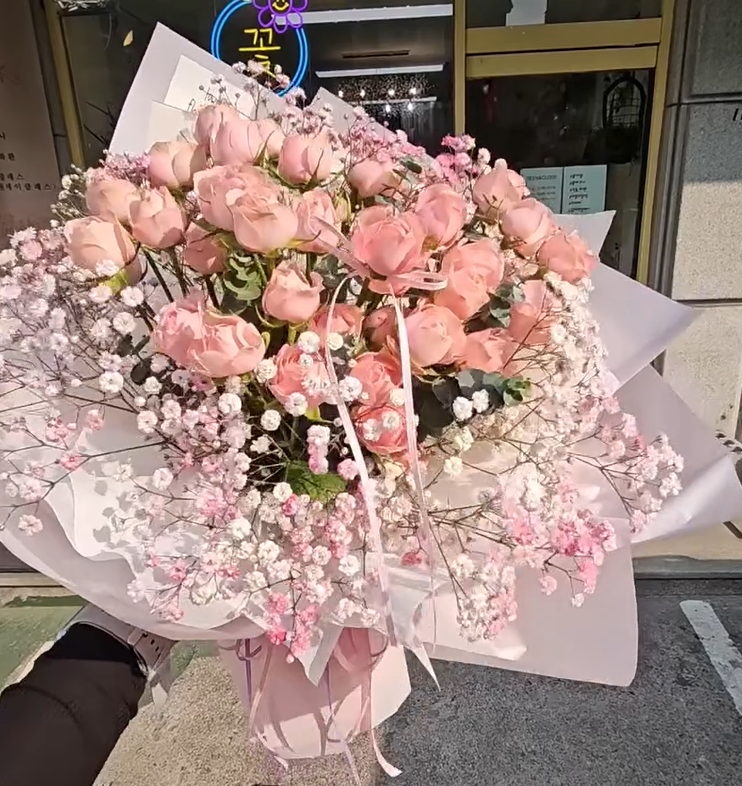
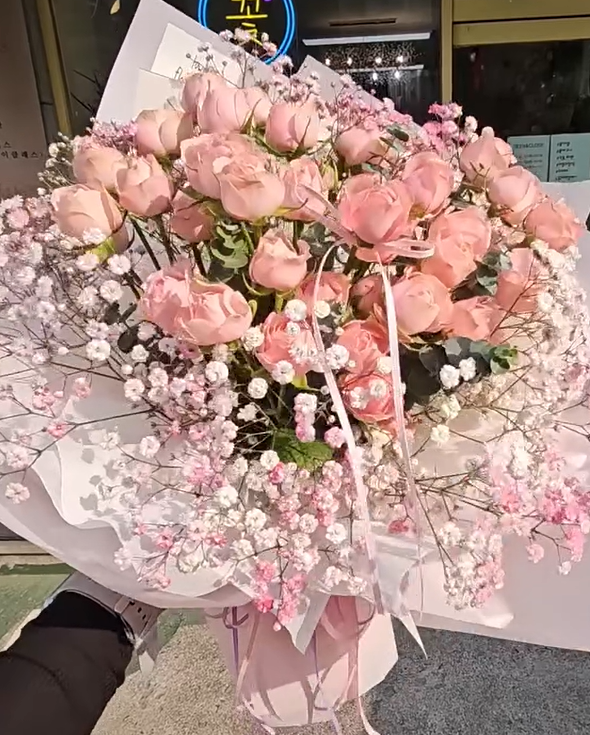
feat: 포트폴리오 클래식 궇현 완료

diff --git a/src/component/portfolioComponent.tsx b/src/component/portfolioComponent.tsx
@@ -1,9 +1,17 @@
 import React, { useState, useEffect } from "react";
 import { FaExternalLinkAlt } from "react-icons/fa";
-
+//클래식
 import portc1 from "../assets/portfolio/classic/portc1.png";
 import portc2 from "../assets/portfolio/classic/portc2.png";
 import portc3 from "../assets/portfolio/classic/portc3.png";
+import portc4 from "../assets/portfolio/classic/portc4.png";
+import portc5 from "../assets/portfolio/classic/portc5.png";
+import portc6 from "../assets/portfolio/classic/portc6.png";
+import portc7 from "../assets/portfolio/classic/portc7.png";
+import portc8 from "../assets/portfolio/classic/portc8.png";
+
+//유니크
+import portu5 from "../assets/portfolio/unique/portu5.png";
 
 // 1.데이터에 style(클래식/유니크) 속성 추가
 const portfolioData = [
@@ -19,11 +27,37 @@ const portfolioData = [
   },
   {
     src: portc3,
+    tags: ["핑크", "화이트"],
+    style: "클래식",
+  },
+  {
+    src: portc4,
     tags: ["핑크"],
+    style: "클래식",
+  },
+  {
+    src: portc5,
+    tags: ["블루", "화이트"],
+    style: "클래식",
+  },
+  {
+    src: portc6,
+    tags: ["퍼플", "화이트"],
+    style: "클래식",
+  },
+  {
+    src: portc8,
+    tags: ["컬러풀"],
+    style: "클래식",
+  },
+  {
+    src: portc7,
+    tags: ["컬러풀"],
     style: "클래식",
   },
   { src: "/images/portu2.png", tags: ["컬러풀"], style: "유니크" },
   { src: "/images/portu3.png", tags: ["퍼플", "화이트"], style: "유니크" },
+  { src: portu5, tags: ["블루", "화이트"], style: "유니크" },
 ];
 // 레드: "RED",
 //   핑크: "PINK",
